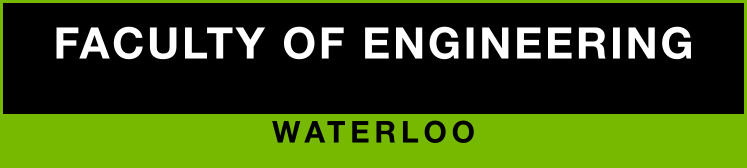
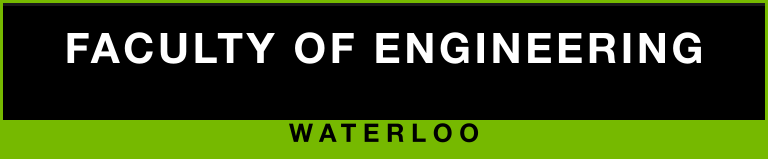
docs: precision-uniform badge program (identical geometry, measured text)
Focused pass on the NVIDIA-style set: all five badges now share IDENTICAL dimensions (256x53) like a
real partner-badge program, instead of five different widths. Text widths were measured pixel-exact
(rendered @4x, alpha-bbox) rather than estimated, the green band slimmed to a 13px strip with a
darker #5E9400 bottom edge, a 10% white top hairline gives the black block a machined edge, and
tracking tightened (14px/1.2 main, 8.5px/2.2 band). Rendered on both GitHub themes and eyeballed
before commit; @3x retina PNGs.

Changed region(s): [[0.0616, 0.1509, 0.9237, 0.4025], [0.0, 0.6792, 1.0, 0.9057], [0.0, 0.0, 1.0, 0.0503]]

diff --git a/README.md b/README.md
@@ -13,11 +13,11 @@ starting from zero and start picking up where you left off.
 <br/>
 
 <!-- Affiliation, sponsor & license — individual buttons: each bordered, rounded, spaced -->
-[<img src=".github/badges/waterloo.png" alt="University of Waterloo" height="56" />](https://uwaterloo.ca)
-[<img src=".github/badges/engineering.png" alt="Faculty of Engineering" height="56" />](https://uwaterloo.ca/engineering)
-[<img src=".github/badges/research.png" alt="Academic Research" height="56" />](https://uwaterloo.ca/research)
-[<img src=".github/badges/composio.png" alt="Sponsored by Composio" height="56" />](https://composio.dev)
-[<img src=".github/badges/mit.png" alt="MIT License" height="56" />](LICENSE)
+[<img src=".github/badges/waterloo.png" alt="University of Waterloo" height="53" />](https://uwaterloo.ca)
+[<img src=".github/badges/engineering.png" alt="Faculty of Engineering" height="53" />](https://uwaterloo.ca/engineering)
+[<img src=".github/badges/research.png" alt="Academic Research" height="53" />](https://uwaterloo.ca/research)
+[<img src=".github/badges/composio.png" alt="Sponsored by Composio" height="53" />](https://composio.dev)
+[<img src=".github/badges/mit.png" alt="MIT License" height="53" />](LICENSE)
 
 <br/>
 
@@ -155,7 +155,7 @@ is described honestly in the app and on the site. Questions: **support@trydoppl.
 <table>
   <tr>
     <td align="center" width="33%">
-      <a href="https://uwaterloo.ca"><img src=".github/badges/waterloo.png" alt="University of Waterloo" height="56" /></a><br/>
+      <a href="https://uwaterloo.ca"><img src=".github/badges/waterloo.png" alt="University of Waterloo" height="53" /></a><br/>
       <sub>Built at the <b>University of Waterloo</b><br/>Faculty of Engineering</sub>
     </td>
     <td align="center" width="33%">
